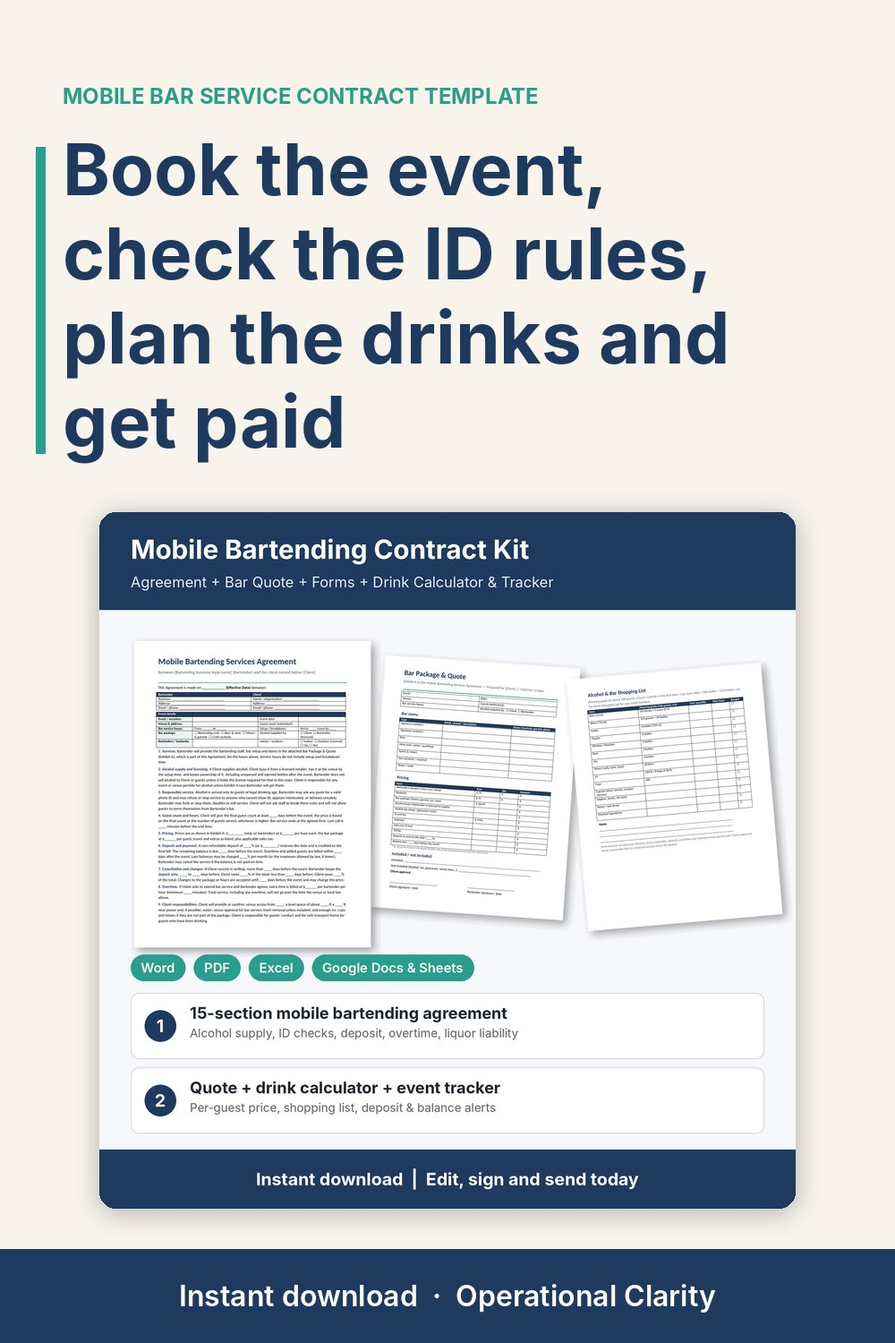
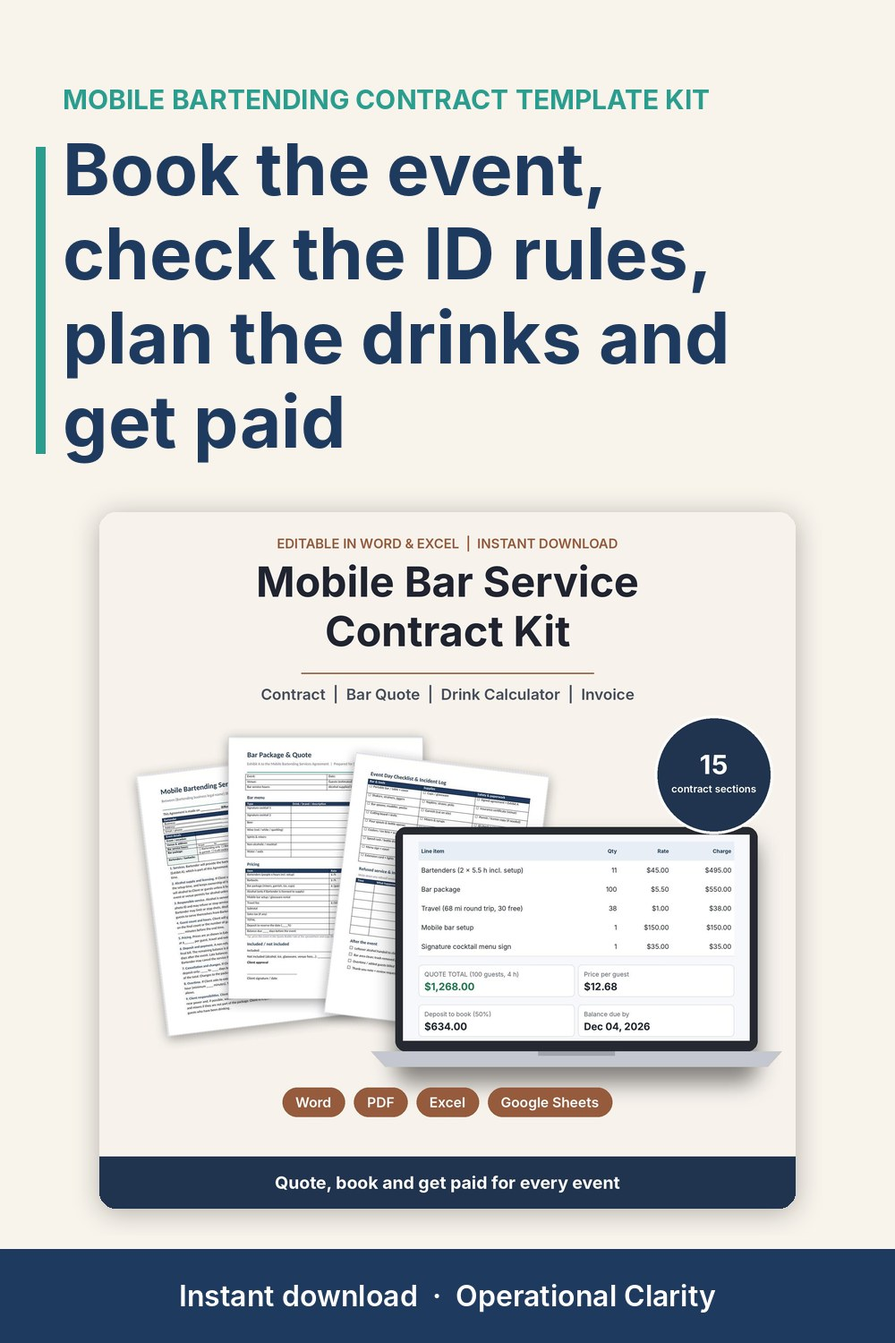
PROMO 11/09: main + b pins re-rendered for reverted titles of 4601646939, 4601355308; refresh feed
Claude-Session: https://claude.ai/code/session_01DNMp1qHdJLzhWbKsZHTYBr

Changed region(s): [[0.093, 0.368, 0.899, 0.8893], [0.062, 0.0613, 0.806, 0.092]]

diff --git a/index.html b/index.html
@@ -7,6 +7,6 @@
 <div class="card"><h2><a href="recipe-cost-calculator.html">Recipe Cost Calculator</a></h2><p>Cost per batch, cost per serving and a suggested price for baked goods.</p></div>
 <div class="card"><h2><a href="paycheck-budget-calculator.html">Paycheck Budget Calculator</a></h2><p>Split bills across paychecks and see what is left from each one.</p></div>
 <div class="card"><h2><a href="landed-cost-calculator.html">Landed Cost Calculator</a></h2><p>True cost per unit after freight, duty and fees.</p></div>
-<h2 id="templates">Spreadsheet & Document Templates</h2><ul><li><a href="p/4595349035.html">2027 Planner Digital &amp; Printable</a></li><li><a href="p/4594598019.html">Airbnb Welcome Book Template Editable in Word Google Docs</a></li><li><a href="p/4602024296.html">Babysitting Forms Kit</a></li><li><a href="p/4553654453.html">Bakery Business Bundle</a></li><li><a href="p/4596837173.html">Bookkeeping Spreadsheet Small Business</a></li><li><a href="p/4608973473.html">Brow Lamination Forms Kit</a></li><li><a href="p/4554866019.html">Business Budget Spreadsheet</a></li><li><a href="p/4600601073.html">Candle Making Log Spreadsheet + Fragrance Load Calculator</a></li><li><a href="p/4601355308.html">Catering Contract Template, Catering Business Contract, Catering Agreement &amp; Order Form, BEO, Menu Quote Calculator, Invoice, Word PDF Excel</a></li><li><a href="p/4607543295.html">Cleaning Business Forms Kit</a></li><li><a href="p/4598967865.html">Coffee Shop Business Plan Template + Startup &amp; Profit Planner Spreadsheet</a></li><li><a href="p/4602477706.html">Consignment Tracker Spreadsheet + Consignment Agreement</a></li><li><a href="p/4600607420.html">Consulting Contract Template + Statement of Work &amp; Proposal</a></li><li><a href="p/4554878636.html">Contract Tracker Spreadsheet</a></li><li><a href="p/4597002015.html">Cookie Pricing Calculator</a></li><li><a href="p/4601198780.html">Dance Studio Forms Kit</a></li><li><a href="p/4601100164.html">Daycare Menu Planner Spreadsheet + Weekly Menu Template</a></li><li><a href="p/4610492983.html">Dog Grooming Forms Kit</a></li><li><a href="p/4598811066.html">Embroidery Pricing Calculator Spreadsheet</a></li><li><a href="p/4594516468.html">Employee Schedule Template Excel Google Sheets</a></li><li><a href="p/4607276707.html">Esthetician Forms Kit</a></li><li><a href="p/4599677766.html">Event Planner Contract Template + Client Questionnaire &amp; Budget Tracker</a></li><li><a href="p/4599435344.html">Florist Order Form Template + Wedding Consultation Form &amp; Flower Pricing Calculator</a></li><li><a href="p/4602913827.html">Food Cost Bundle</a></li><li><a href="p/4597499808.html">Food Truck Business Plan Template + Startup &amp; Profit Planner Spreadsheet</a></li><li><a href="p/4602392090.html">Freelance Writer Contract Template Kit</a></li><li><a href="p/4601783746.html">Graphic Design Contract Template Kit</a></li><li><a href="p/4611234615.html">Hair Extension Forms Kit</a></li><li><a href="p/4597022350.html">Home Daycare Starter Kit</a></li><li><a href="p/4601273740.html">Horse Boarding Contract Kit</a></li><li><a href="p/4552565761.html">Ingredient Cost Comparison Sheet</a></li><li><a href="p/4552578072.html">Inventory Count Sheet</a></li><li><a href="p/4554865995.html">Inventory Loss Tracker</a></li><li><a href="p/4553664350.html">Inventory Management Bundle</a></li><li><a href="p/4443844823.html">Inventory Tracker Spreadsheet with Reorder Alerts</a></li><li><a href="p/4602913735.html">Inventory and Ordering Bundle</a></li><li><a href="p/4554878596.html">Landed Cost Calculator Spreadsheet</a></li><li><a href="p/4602544610.html">Landscaping Contract Template Kit</a></li><li><a href="p/4606330823.html">Lash Tech Forms Kit</a></li><li><a href="p/4608245532.html">Makeup Artist Contract Kit</a></li><li><a href="p/4598084241.html">Massage Intake Form Template + SOAP Notes &amp; Client Tracker Spreadsheet</a></li><li><a href="p/4611943162.html">Microblading Consent Form Kit</a></li><li><a href="p/4601646939.html">Mobile Bar Service Contract Template, Mobile Bartending Contract &amp; Invoice, Bartender Agreement, Drink Calculator, Event Tracker, Word Excel</a></li><li><a href="p/4558377143.html">Monthly Profit and Loss Dashboard Template</a></li><li><a href="p/4554866001.html">Multi Location Inventory Tracker</a></li><li><a href="p/4602844224.html">Nail Tech Forms Kit</a></li><li><a href="p/4601947594.html">Nanny Contract Template Kit</a></li><li><a href="p/4598251079.html">Notary Log Printable, Notary Journal 150 Entries, Notary Record Book + Business Kit, Fee Sheet, Loan Signing Checklist &amp; Mileage Tracker</a></li><li><a href="p/4594847811.html">Paycheck Budget Planner Spreadsheet</a></li><li><a href="p/4599761870.html">Personal Trainer Forms + Client Tracker</a></li><li><a href="p/4598178519.html">Pet Sitting Contract Template + Pet Care Sheet &amp; Booking Invoice Tracker</a></li><li><a href="p/4612559974.html">Photo Booth Contract Kit</a></li><li><a href="p/4597992636.html">Photography Client Questionnaire Templates + Pricing Calculator &amp; Booking Tracker</a></li><li><a href="p/4599831777.html">Piano Lesson Tracker + Practice Assignment Sheet &amp; Studio Policy</a></li><li><a href="p/4594208500.html">Print on Demand Profit Tracker Spreadsheet</a></li><li><a href="p/4554878680.html">Product Cost Calculator</a></li><li><a href="p/4603480063.html">Purchase Order + Inventory Dashboard</a></li><li><a href="p/4552565751.html">Purchase Order Approval Tracker</a></li><li><a href="p/4430807339.html">Purchase Order Tracker Spreadsheet &amp; Receiving Log</a></li><li><a href="p/4552578064.html">Purchasing SOP Templates</a></li><li><a href="p/4553664356.html">Purchasing Templates Bundle</a></li><li><a href="p/4554878614.html">Quote Comparison Spreadsheet</a></li><li><a href="p/4562652240.html">Recipe Cost Calculator Google Sheets Excel</a></li><li><a href="p/4552578048.html">Reorder Point Calculator</a></li><li><a href="p/4600974020.html">Restaurant Inventory Sheet + Food Cost Calculator</a></li><li><a href="p/4604903580.html">Restaurant Purchasing Bundle</a></li><li><a href="p/4604185746.html">Retail Shop Bundle</a></li><li><a href="p/4554878660.html">Returns Tracker Spreadsheet</a></li><li><a href="p/4554878628.html">Sales Forecast Spreadsheet</a></li><li><a href="p/4597001937.html">Salon Booth Rental Contract, Booth Rental Agreement, Salon Station &amp; Chair Rental, Renter Application, Policies, Rent Tracker, Word Excel</a></li><li><a href="p/4561265217.html">Simple Inventory Tracker Spreadsheet</a></li><li><a href="p/4605653122.html">Small Business Bookkeeping Dashboard</a></li><li><a href="p/4553654601.html">Small Business Operations Bundle</a></li><li><a href="p/4598888813.html">Soap Making Log Spreadsheet + Cost per Bar Calculator</a></li><li><a href="p/4598679324.html">Social Media Manager Contract Template + Client Onboarding &amp; Pricing Calculator</a></li><li><a href="p/4609739239.html">Spray Tan Forms Kit</a></li><li><a href="p/4552578060.html">Supplier Price Tracker</a></li><li><a href="p/4552578052.html">Supplier Tracker Spreadsheet</a></li><li><a href="p/4602618784.html">Tattoo Consent Form Kit</a></li><li><a href="p/4596131544.html">Tax Deduction Tracker Spreadsheet</a></li><li><a href="p/4601852361.html">Tutoring Contract Template Kit</a></li><li><a href="p/4552565827.html">Vendor Onboarding Checklist</a></li><li><a href="p/4599059861.html">Virtual Assistant Contract Template + Client Onboarding &amp; Retainer Time Tracker</a></li><li><a href="p/4554865969.html">Warehouse Spreadsheet</a></li><li><a href="p/4602285754.html">Web Design Contract Template Kit</a></li><li><a href="p/4598332795.html">Wholesale Order Form Template, Editable Wholesale Price List &amp; Order Tracker Spreadsheet, Wholesale Terms, Buyer Application, Excel Word</a></li><li><a href="p/4561283977.html">Wholesale Price List Template Excel Google Sheets</a></li></ul>
+<h2 id="templates">Spreadsheet & Document Templates</h2><ul><li><a href="p/4595349035.html">2027 Planner Digital &amp; Printable</a></li><li><a href="p/4594598019.html">Airbnb Welcome Book Template Editable in Word Google Docs</a></li><li><a href="p/4602024296.html">Babysitting Forms Kit</a></li><li><a href="p/4553654453.html">Bakery Business Bundle</a></li><li><a href="p/4596837173.html">Bookkeeping Spreadsheet Small Business</a></li><li><a href="p/4608973473.html">Brow Lamination Forms Kit</a></li><li><a href="p/4554866019.html">Business Budget Spreadsheet</a></li><li><a href="p/4600601073.html">Candle Making Log Spreadsheet + Fragrance Load Calculator</a></li><li><a href="p/4601355308.html">Catering Contract Template Kit</a></li><li><a href="p/4607543295.html">Cleaning Business Forms Kit</a></li><li><a href="p/4598967865.html">Coffee Shop Business Plan Template + Startup &amp; Profit Planner Spreadsheet</a></li><li><a href="p/4602477706.html">Consignment Tracker Spreadsheet + Consignment Agreement</a></li><li><a href="p/4600607420.html">Consulting Contract Template + Statement of Work &amp; Proposal</a></li><li><a href="p/4554878636.html">Contract Tracker Spreadsheet</a></li><li><a href="p/4597002015.html">Cookie Pricing Calculator</a></li><li><a href="p/4601198780.html">Dance Studio Forms Kit</a></li><li><a href="p/4601100164.html">Daycare Menu Planner Spreadsheet + Weekly Menu Template</a></li><li><a href="p/4610492983.html">Dog Grooming Forms Kit</a></li><li><a href="p/4598811066.html">Embroidery Pricing Calculator Spreadsheet</a></li><li><a href="p/4594516468.html">Employee Schedule Template Excel Google Sheets</a></li><li><a href="p/4607276707.html">Esthetician Forms Kit</a></li><li><a href="p/4599677766.html">Event Planner Contract Template + Client Questionnaire &amp; Budget Tracker</a></li><li><a href="p/4599435344.html">Florist Order Form Template + Wedding Consultation Form &amp; Flower Pricing Calculator</a></li><li><a href="p/4602913827.html">Food Cost Bundle</a></li><li><a href="p/4597499808.html">Food Truck Business Plan Template + Startup &amp; Profit Planner Spreadsheet</a></li><li><a href="p/4602392090.html">Freelance Writer Contract Template Kit</a></li><li><a href="p/4601783746.html">Graphic Design Contract Template Kit</a></li><li><a href="p/4611234615.html">Hair Extension Forms Kit</a></li><li><a href="p/4597022350.html">Home Daycare Starter Kit</a></li><li><a href="p/4601273740.html">Horse Boarding Contract Kit</a></li><li><a href="p/4552565761.html">Ingredient Cost Comparison Sheet</a></li><li><a href="p/4552578072.html">Inventory Count Sheet</a></li><li><a href="p/4554865995.html">Inventory Loss Tracker</a></li><li><a href="p/4553664350.html">Inventory Management Bundle</a></li><li><a href="p/4443844823.html">Inventory Tracker Spreadsheet with Reorder Alerts</a></li><li><a href="p/4602913735.html">Inventory and Ordering Bundle</a></li><li><a href="p/4554878596.html">Landed Cost Calculator Spreadsheet</a></li><li><a href="p/4602544610.html">Landscaping Contract Template Kit</a></li><li><a href="p/4606330823.html">Lash Tech Forms Kit</a></li><li><a href="p/4608245532.html">Makeup Artist Contract Kit</a></li><li><a href="p/4598084241.html">Massage Intake Form Template + SOAP Notes &amp; Client Tracker Spreadsheet</a></li><li><a href="p/4611943162.html">Microblading Consent Form Kit</a></li><li><a href="p/4601646939.html">Mobile Bartending Contract Template Kit</a></li><li><a href="p/4558377143.html">Monthly Profit and Loss Dashboard Template</a></li><li><a href="p/4554866001.html">Multi Location Inventory Tracker</a></li><li><a href="p/4602844224.html">Nail Tech Forms Kit</a></li><li><a href="p/4601947594.html">Nanny Contract Template Kit</a></li><li><a href="p/4598251079.html">Notary Log Printable, Notary Journal 150 Entries, Notary Record Book + Business Kit, Fee Sheet, Loan Signing Checklist &amp; Mileage Tracker</a></li><li><a href="p/4594847811.html">Paycheck Budget Planner Spreadsheet</a></li><li><a href="p/4599761870.html">Personal Trainer Forms + Client Tracker</a></li><li><a href="p/4598178519.html">Pet Sitting Contract Template + Pet Care Sheet &amp; Booking Invoice Tracker</a></li><li><a href="p/4612559974.html">Photo Booth Contract Kit</a></li><li><a href="p/4597992636.html">Photography Client Questionnaire Templates + Pricing Calculator &amp; Booking Tracker</a></li><li><a href="p/4599831777.html">Piano Lesson Tracker + Practice Assignment Sheet &amp; Studio Policy</a></li><li><a href="p/4594208500.html">Print on Demand Profit Tracker Spreadsheet</a></li><li><a href="p/4554878680.html">Product Cost Calculator</a></li><li><a href="p/4603480063.html">Purchase Order + Inventory Dashboard</a></li><li><a href="p/4552565751.html">Purchase Order Approval Tracker</a></li><li><a href="p/4430807339.html">Purchase Order Tracker Spreadsheet &amp; Receiving Log</a></li><li><a href="p/4552578064.html">Purchasing SOP Templates</a></li><li><a href="p/4553664356.html">Purchasing Templates Bundle</a></li><li><a href="p/4554878614.html">Quote Comparison Spreadsheet</a></li><li><a href="p/4562652240.html">Recipe Cost Calculator Google Sheets Excel</a></li><li><a href="p/4552578048.html">Reorder Point Calculator</a></li><li><a href="p/4600974020.html">Restaurant Inventory Sheet + Food Cost Calculator</a></li><li><a href="p/4604903580.html">Restaurant Purchasing Bundle</a></li><li><a href="p/4604185746.html">Retail Shop Bundle</a></li><li><a href="p/4554878660.html">Returns Tracker Spreadsheet</a></li><li><a href="p/4554878628.html">Sales Forecast Spreadsheet</a></li><li><a href="p/4597001937.html">Salon Booth Rental Contract, Booth Rental Agreement, Salon Station &amp; Chair Rental, Renter Application, Policies, Rent Tracker, Word Excel</a></li><li><a href="p/4561265217.html">Simple Inventory Tracker Spreadsheet</a></li><li><a href="p/4605653122.html">Small Business Bookkeeping Dashboard</a></li><li><a href="p/4553654601.html">Small Business Operations Bundle</a></li><li><a href="p/4598888813.html">Soap Making Log Spreadsheet + Cost per Bar Calculator</a></li><li><a href="p/4598679324.html">Social Media Manager Contract Template + Client Onboarding &amp; Pricing Calculator</a></li><li><a href="p/4609739239.html">Spray Tan Forms Kit</a></li><li><a href="p/4552578060.html">Supplier Price Tracker</a></li><li><a href="p/4552578052.html">Supplier Tracker Spreadsheet</a></li><li><a href="p/4602618784.html">Tattoo Consent Form Kit</a></li><li><a href="p/4596131544.html">Tax Deduction Tracker Spreadsheet</a></li><li><a href="p/4601852361.html">Tutoring Contract Template Kit</a></li><li><a href="p/4552565827.html">Vendor Onboarding Checklist</a></li><li><a href="p/4599059861.html">Virtual Assistant Contract Template + Client Onboarding &amp; Retainer Time Tracker</a></li><li><a href="p/4554865969.html">Warehouse Spreadsheet</a></li><li><a href="p/4602285754.html">Web Design Contract Template Kit</a></li><li><a href="p/4598332795.html">Wholesale Order Form Template, Editable Wholesale Price List &amp; Order Tracker Spreadsheet, Wholesale Terms, Buyer Application, Excel Word</a></li><li><a href="p/4561283977.html">Wholesale Price List Template Excel Google Sheets</a></li></ul>
 <p>Want the full spreadsheet versions? <a class="cta" href="https://www.etsy.com/shop/Operationalclarity">Browse all templates on Etsy</a></p>
 </main><footer>Free tools by <a href="https://www.etsy.com/shop/Operationalclarity">Operational Clarity</a>. Estimates only, not financial or tax advice. Not affiliated with Etsy.</footer></body></html>

diff --git a/p/4601646939.html b/p/4601646939.html
@@ -1,8 +1,8 @@
 <!doctype html><html lang="en"><head><meta charset="utf-8"><meta name="viewport" content="width=device-width,initial-scale=1">
-<title>Mobile Bar Service Contract Template, Mobile Bartending Contract &amp; Invoice, Bartender Agreement, Drink Calculator, Event Tracker, Word Excel | Operational Clarity</title><meta name="description" content="Book the event, check the ID rules, plan the drinks and get paid: a complete mobile bartending contract kit with a working quote calculator, drink calculat">
+<title>Mobile Bartending Contract Template Kit | Operational Clarity</title><meta name="description" content="Book the event, check the ID rules, plan the drinks and get paid: a complete mobile bartending contract kit with a working quote calculator, drink calculat">
 <link rel="canonical" href="https://hgmanagementusa-bot.github.io/operationalclarity-tools/p/4601646939.html"><link rel="stylesheet" href="../style.css">
-<meta property="og:title" content="Mobile Bar Service Contract Template, Mobile Bartending Contract &amp; Invoice, Bartender Agreement, Drink Calculator, Event Tracker, Word Excel"><meta property="og:image" content="https://hgmanagementusa-bot.github.io/operationalclarity-tools/pins/4601646939.jpg"><meta property="og:type" content="product"></head>
+<meta property="og:title" content="Mobile Bartending Contract Template Kit"><meta property="og:image" content="https://hgmanagementusa-bot.github.io/operationalclarity-tools/pins/4601646939.jpg"><meta property="og:type" content="product"></head>
 <body><header><a href="../index.html">Operational Clarity · Small Business Templates</a></header><main>
-<h1>Mobile Bar Service Contract Template, Mobile Bartending Contract &amp; Invoice, Bartender Agreement, Drink Calculator, Event Tracker, Word Excel</h1><img src="../pins/4601646939.jpg" alt="Mobile Bar Service Contract Template, Mobile Bartending Contract &amp; Invoice, Bartender Agreement, Drink Calculator, Event Tracker, Word Excel" style="max-width:100%;height:auto;border-radius:8px">
+<h1>Mobile Bartending Contract Template Kit</h1><img src="../pins/4601646939.jpg" alt="Mobile Bartending Contract Template Kit" style="max-width:100%;height:auto;border-radius:8px">
 <p><a class="cta" href="https://www.etsy.com/listing/4601646939/mobile-bartending-contract-template-kit">Get it on Etsy</a></p><p>Book the event, check the ID rules, plan the drinks and get paid: a complete mobile bartending contract kit with a working quote calculator, drink calculator and deposit tracker, not just a Word file.</p><p>WHAT&#x27;S INSIDE<br>- Mobile Bartending Services Agreement (Word + PDF): event details table + 15 plain-English sections, 2 pages. Services, alcohol supply and licensing (client-supplied or licensed bar), responsible service and ID checks, guest count and last call, pricing, deposit and payment, cancellation scale, overtime, client responsibilities (space, power, water, venue approval), gratuity and tip jar, insurance and liquor liability, equipment and damage, weather and safety, force majeure, governing law, signatures.<br>- Bar Package &amp; Quote (Word + PDF): bar menu with signature cocktails and mocktails, pricing table, deposit and balance. Attach it to the agreement as Exhibit A.<br>- Final Details &amp; Event Confirmation (Word + PDF): final 21+ / under-21 count, alcohol the client is supplying, event timeline, client sign-off.<br>- Mobile Bar Inquiry Form (Word + PDF): everything to ask on the first call.<br>- Alcohol &amp; Bar Shopping List + Event Day Checklist + Refused Service &amp; Incident Log (Word + PDF).<br>- Mobile Bar Quote, Drink Calculator &amp; Event Tracker (Excel / Google Sheets, 8 tabs):<br>  * Quote Builder: guests, hours, bar package, bartenders needed (auto from guests per bartender), barbacks, travel fee, extras, discount; quote total, price per guest, deposit, balance due date, headcount deadline, profit and margin<br>  * Drink Calculator: total drinks, cases of beer, bottles of wine, bottles of each spirit, ice bags, mixer liters and cups, with estimated cost<br>  * Events: deposit required, paid to date, balance, final payment and headcount due dates, margin, alerts (DEPOSIT DUE / BALANCE OVERDUE / GET HEADCOUNT / PAID IN FULL)<br>  * Payments log and a printable Invoice<br>  * Dashboard: booked revenue, collected, outstanding, overdue, average price per guest, margin, month-by-month chart<br>- START HERE guide (PDF)</p><p>HOW IT WORKS<br>1. Enter your rates, bar packages and travel fee on Settings.<br>2. Fill in the Inquiry Form on the first call, then price the event in the Quote Builder and plan the drinks in the Drink Calculator.<br>3. Send the Bar Package &amp; Quote; when the client says yes, fill in and sign the Agreement.<br>4. Track the deposit and balance on Events and Payments, send the Final Details form before the deadline, and print the checklist and incident log for event day.<br>Example data (8 sample events) shows how it all connects; delete it and type your own. Yellow cells = type here, green cells = calculated.</p><p>FORMATS<br>- Word .docx (edit in Microsoft Word, Google Docs, Pages or LibreOffice) + PDF, US Letter<br>- Excel .xlsx (works in Excel and Google Sheets)</p><p>This is an instant digital download, no physical item will be shipped.</p><p>Editable template, not legal advice. Alcohol service, licensing, liquor liability and contract rules differ by state, county and venue; have it reviewed by a local attorney before you use it. Drink amounts are planning estimates; serve responsibly and follow your state and venue alcohol rules.</p><p><a class="cta" href="https://www.etsy.com/listing/4601646939/mobile-bartending-contract-template-kit">Get it on Etsy</a></p>
 </main><footer>By <a href="https://www.etsy.com/shop/Operationalclarity">Operational Clarity</a>. Not affiliated with Etsy.</footer></body></html>

diff --git a/p/4601355308.html b/p/4601355308.html
@@ -1,8 +1,8 @@
 <!doctype html><html lang="en"><head><meta charset="utf-8"><meta name="viewport" content="width=device-width,initial-scale=1">
-<title>Catering Contract Template, Catering Business Contract, Catering Agreement &amp; Order Form, BEO, Menu Quote Calculator, Invoice, Word PDF Excel | Operational Clarity</title><meta name="description" content="Book the event, lock the guest count and get paid: a complete catering contract kit with a working quote calculator and deposit tracker, not just a Word fi">
+<title>Catering Contract Template Kit | Operational Clarity</title><meta name="description" content="Book the event, lock the guest count and get paid: a complete catering contract kit with a working quote calculator and deposit tracker, not just a Word fi">
 <link rel="canonical" href="https://hgmanagementusa-bot.github.io/operationalclarity-tools/p/4601355308.html"><link rel="stylesheet" href="../style.css">
-<meta property="og:title" content="Catering Contract Template, Catering Business Contract, Catering Agreement &amp; Order Form, BEO, Menu Quote Calculator, Invoice, Word PDF Excel"><meta property="og:image" content="https://hgmanagementusa-bot.github.io/operationalclarity-tools/pins/4601355308.jpg"><meta property="og:type" content="product"></head>
+<meta property="og:title" content="Catering Contract Template Kit"><meta property="og:image" content="https://hgmanagementusa-bot.github.io/operationalclarity-tools/pins/4601355308.jpg"><meta property="og:type" content="product"></head>
 <body><header><a href="../index.html">Operational Clarity · Small Business Templates</a></header><main>
-<h1>Catering Contract Template, Catering Business Contract, Catering Agreement &amp; Order Form, BEO, Menu Quote Calculator, Invoice, Word PDF Excel</h1><img src="../pins/4601355308.jpg" alt="Catering Contract Template, Catering Business Contract, Catering Agreement &amp; Order Form, BEO, Menu Quote Calculator, Invoice, Word PDF Excel" style="max-width:100%;height:auto;border-radius:8px">
+<h1>Catering Contract Template Kit</h1><img src="../pins/4601355308.jpg" alt="Catering Contract Template Kit" style="max-width:100%;height:auto;border-radius:8px">
 <p><a class="cta" href="https://www.etsy.com/listing/4601355308/catering-contract-template-kit-catering">Get it on Etsy</a></p><p>Book the event, lock the guest count and get paid: a complete catering contract kit with a working quote calculator and deposit tracker, not just a Word file.</p><p>WHAT&#x27;S INSIDE<br>- Catering Services Agreement (Word + PDF): event details table + 15 plain-English sections, 2 pages. Services and menu, final guest count, per-guest pricing, service charge vs gratuity, deposit and payment, cancellation scale, client responsibilities, allergies and dietary needs, food safety and leftovers, alcohol, equipment and rentals, staff overtime, insurance and liability, force majeure, photos, signatures.<br>- Catering Proposal &amp; Menu Quote (Word + PDF): menu by course with dietary labels, pricing table, deposit and balance. Attach it to the agreement as Exhibit A.<br>- Final Guest Count &amp; Event Confirmation (Word + PDF): final numbers, guest allergies, event timeline, client sign-off.<br>- Catering Inquiry &amp; Order Form (Word + PDF): everything to ask on the first call.<br>- Event Order (BEO) kitchen &amp; staff sheet + Packing &amp; Day-of Checklist (Word + PDF).<br>- Catering Quote Calculator &amp; Event Tracker (Excel / Google Sheets, 8 tabs):<br>  * Menu Costing: cost per serving from batch cost, suggested price at your target food cost %, your own price override<br>  * Quote Builder: pick menu items and servings per guest, staff hours, rentals and delivery; service charge, tax, quote total, price per guest, deposit, balance due date, headcount deadline, profit after overhead<br>  * Events: deposit required, paid to date, balance, final payment and headcount due dates, margin, alerts (DEPOSIT DUE / BALANCE OVERDUE / GET HEADCOUNT / PAID IN FULL)<br>  * Payments log and a printable Invoice<br>  * Dashboard: booked revenue, collected, outstanding, overdue, average price per guest, margin, month-by-month chart<br>- START HERE guide (PDF)</p><p>HOW IT WORKS<br>1. Enter your settings and cost your dishes on Menu Costing.<br>2. Fill in the Inquiry Form on the first call, then price the event in the Quote Builder.<br>3. Send the Proposal &amp; Menu Quote; when the client says yes, fill in and sign the Agreement.<br>4. Track the deposit and balance on Events and Payments, send the Final Count form before the deadline, and print the BEO and checklist for event day.<br>Example data (8 sample events) shows how it all connects; delete it and type your own. Yellow cells = type here, green cells = calculated.</p><p>FORMATS<br>- Word .docx (edit in Microsoft Word, Google Docs, Pages or LibreOffice) + PDF, US Letter<br>- Excel .xlsx (works in Excel and Google Sheets)</p><p>This is an instant digital download, no physical item will be shipped.</p><p>Editable template, not legal advice. Contract, food safety, alcohol and tax rules differ by state; have it reviewed by a local attorney before you use it. Allergen notes are information only; follow your local health department&#x27;s food safety rules.</p><p><a class="cta" href="https://www.etsy.com/listing/4601355308/catering-contract-template-kit-catering">Get it on Etsy</a></p>
 </main><footer>By <a href="https://www.etsy.com/shop/Operationalclarity">Operational Clarity</a>. Not affiliated with Etsy.</footer></body></html>
